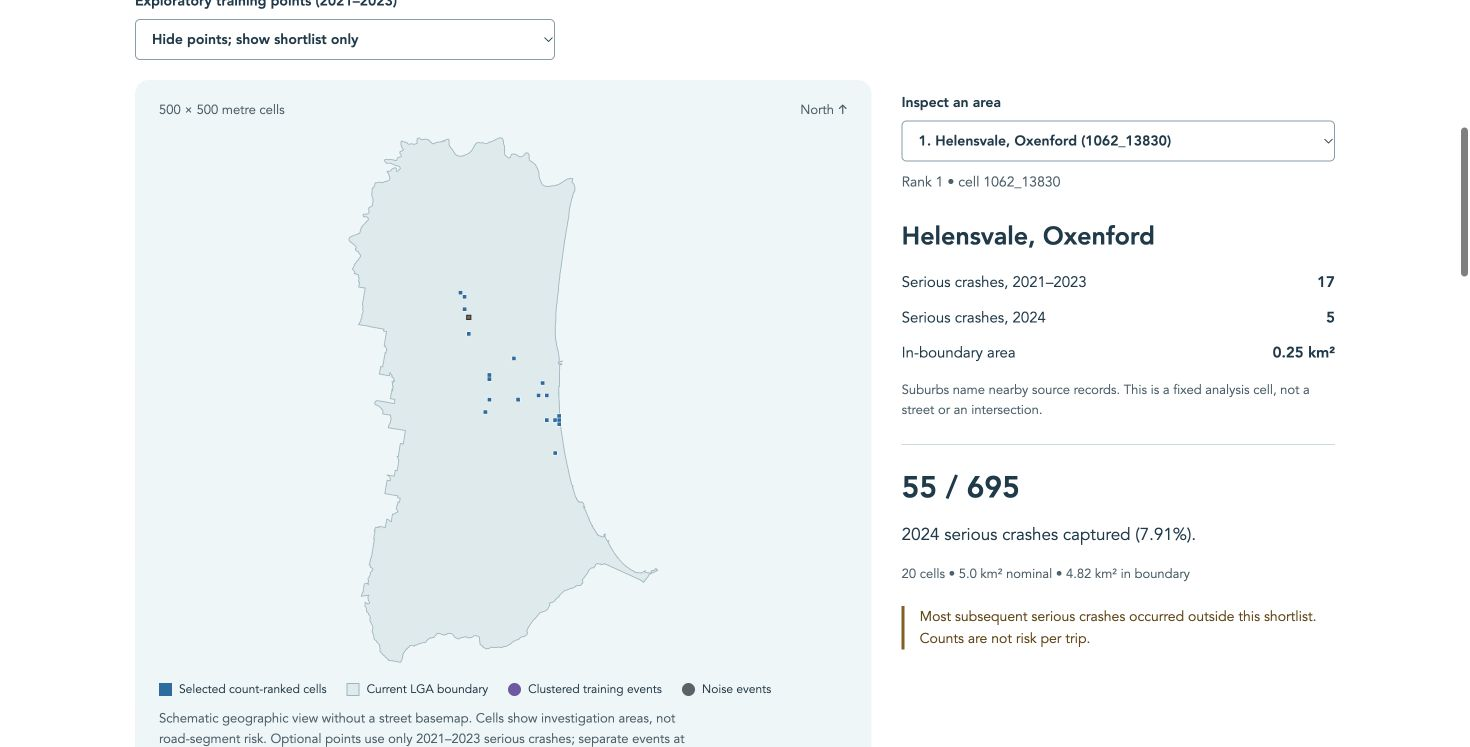
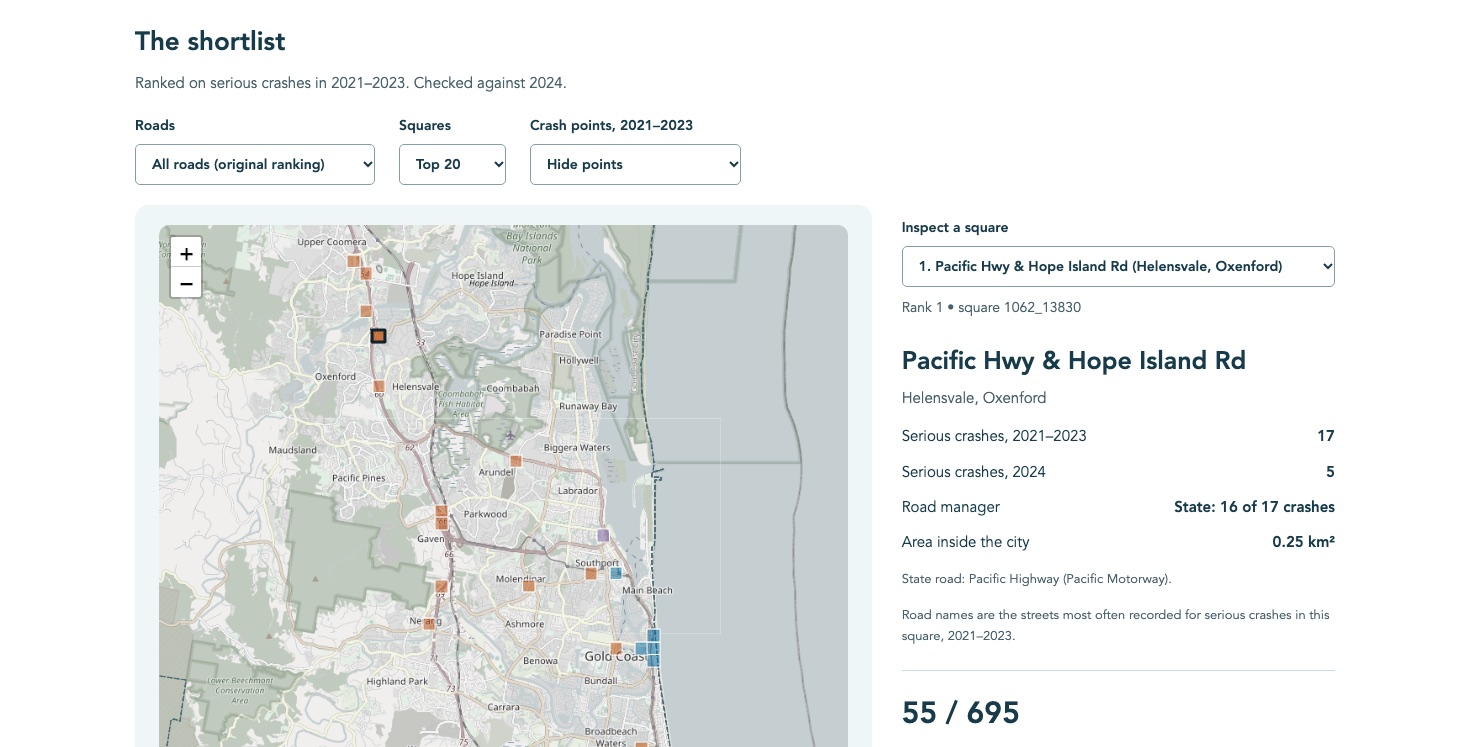
Update Gold Coast crash study: new findings, wording and screenshot

diff --git a/src/content.js b/src/content.js
@@ -37,25 +37,25 @@ export const statement = {
 export const works = [
   {
     id: "gold-coast-transport",
-    title: "Gold Coast Transport Evidence",
-    caption: "2026 / independent, AI-assisted study / public crash data",
+    title: "Gold Coast Crash Hotspots",
+    caption: "2026 / independent study / public crash data",
     hoverline: "8,142 crashes · 500 m grid · held-out 2024 check",
     link: "https://milanshaji.com/gold-coast-transport-evidence/",
     linkLabel: "Open the transport dashboard",
     body: [
-      "I wanted to use data to improve services where I live. I chose Gold Coast transport as the question and approved the scope of an AI-assisted study of 8,142 casualty crashes from 2020–2024. The work combines Python and SQL, a 500 m spatial grid, BigQuery checks, Power BI and a public map dashboard. AI assistance produced the implementation and ran the platform checks; my contribution was directing the question and design.",
-      "The study compares a simple crash-count shortlist with density clustering. On held-out 2024 data, the top 20 count-ranked cells covered 55 of 695 serious crashes, compared with 54 for clustering. That small difference gives no reason to choose the more complex method. Most serious crashes occurred outside either shortlist, and without traffic-volume data these counts cannot estimate risk per trip. The dashboard links to the methods, source code and reproducible data release.",
+      "I wanted to use data to improve services where I live, so I asked where the Gold Coast should start investigating road safety. I built a reproducible study of 8,142 casualty crashes from 2020–2024: Python and SQL, a 500 m spatial grid, a BigQuery spatial check, a Power BI report and a public map dashboard.",
+      "The top 20 squares cover 0.35% of the city but held 55 of the 695 serious crashes in held-out 2024, about 23 times their share by area. DBSCAN clustering caught 54, so the simpler count method stays. Fourteen of those 20 squares are mostly on state-controlled roads, mainly the Pacific Motorway, which TMR manages rather than the City. Ranking council roads separately gives the City its own list: it caught 40 of 384 serious crashes on council roads in 2024, against 24 for the combined list. Without traffic volumes, the counts can't measure risk per trip. The dashboard links to the methods, source code and reproducible data release.",
     ],
     metrics: [
       { value: 8142, suffix: "", label: "casualty crashes, 2020–2024" },
-      { raw: "55 / 695", label: "2024 serious crashes in the top 20 count-ranked cells" },
-      { raw: "500 m", label: "fixed grid cells for a like-for-like comparison" },
+      { raw: "55 / 695", label: "2024 serious crashes in the top 20 squares, ranked on 2021–2023" },
+      { raw: "23×", label: "the top 20 squares' share of serious crashes versus their share of the city's area" },
     ],
-    stack: "python · sql · spatial analysis · bigquery · power bi · read-only mcp tools",
+    stack: "python · sql · geopandas · dbscan · duckdb · bigquery · power bi · leaflet · mcp",
     shots: [{
       src: "./media/transport-evidence.jpg",
-      alt: "Gold Coast transport dashboard showing the investigation shortlist and its held-out 2024 results",
-      caption: "the public dashboard: inspect areas, compare methods and download the evidence",
+      alt: "Gold Coast crash dashboard: the top 20 squares on a street map, coloured by who manages the road, with the selected square's crash counts",
+      caption: "the public dashboard: crash hotspots on a street map, split by who manages the road",
     }],
   },
   {

diff --git a/resume/resume.html b/resume/resume.html
@@ -84,13 +84,13 @@
 
 <div class="entry">
   <div class="row">
-    <span class="entry-title">Gold Coast Transport Evidence — Independent AI-assisted Study</span>
+    <span class="entry-title">Gold Coast Crash Hotspots — Independent Study</span>
     <span class="meta">October 2026</span>
   </div>
   <div class="entry-sub"><a href="https://milanshaji.com/gold-coast-transport-evidence/">milanshaji.com/gold-coast-transport-evidence/</a></div>
   <ul>
-    <li>Directed an independent, AI-assisted study of 8,142 casualty crashes from 2020–2024, selecting the transport question and approving a design covering Python and SQL, a 500 m spatial grid, BigQuery, Power BI and a map dashboard.</li>
-    <li>On held-out 2024 data, the top 20 areas covered 55 of 695 serious crashes using counts versus 54 using DBSCAN clustering, supporting retention of the simpler method.</li>
+    <li>Built a reproducible Python and SQL study of 8,142 Gold Coast casualty crashes (2020–2024) with a 500 m spatial grid, a BigQuery spatial check, a Power BI report and a public Leaflet map dashboard.</li>
+    <li>On held-out 2024 data, the top 20 squares (0.35% of the city) held 55 of 695 serious crashes, about 23× their area share; DBSCAN clustering added nothing (54). Splitting by road manager gave the council its own list, catching 40 of 384 council-road crashes versus 24.</li>
   </ul>
 </div>
 
